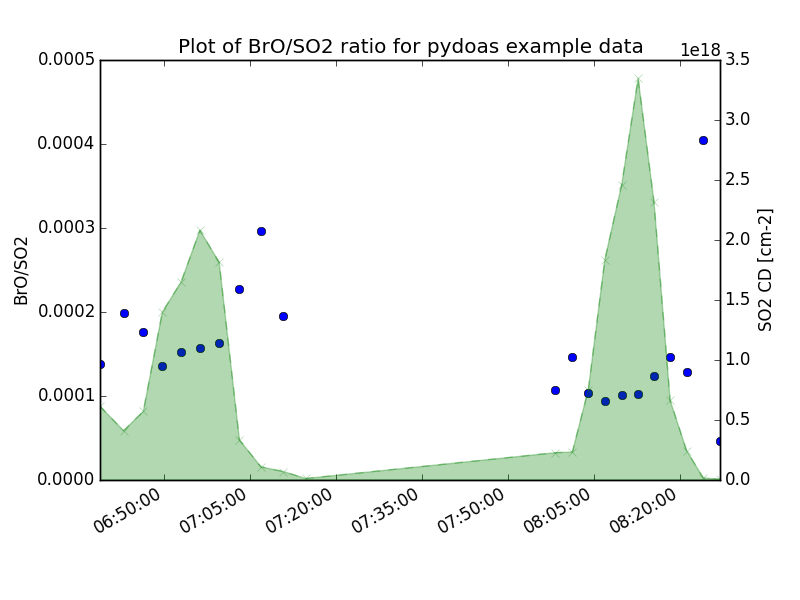
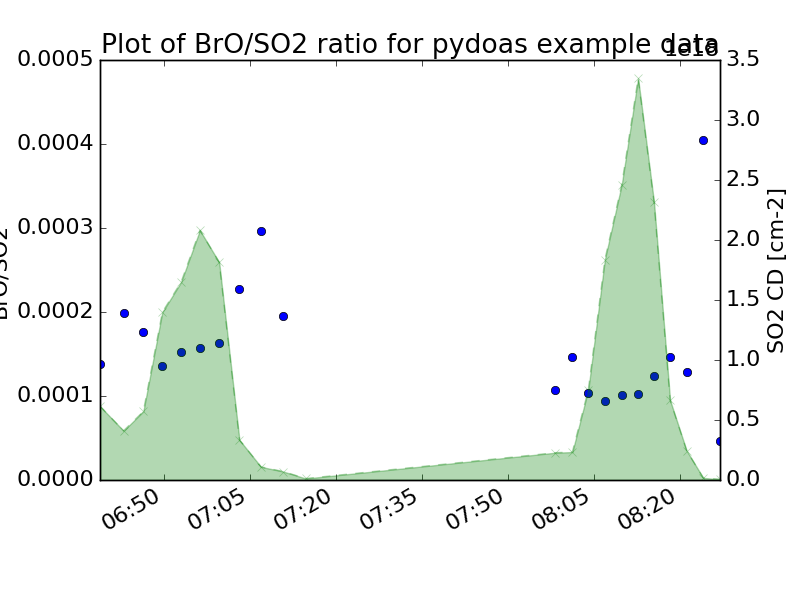
Minor changes in plot style

diff --git a/pydoas/analysis.py b/pydoas/analysis.py
@@ -2,7 +2,6 @@
 from datetime import datetime, timedelta, date
 from numpy import asarray, full, polyfit, poly1d, logical_and, polyval
 from pandas import Series, DataFrame
-from traceback import format_exc
 from matplotlib.pyplot import subplots
 from matplotlib.dates import DateFormatter
 from copy import deepcopy
@@ -36,6 +35,7 @@ class DatasetDoasResults(object):
         """Process input information
         
         Writes ``self.setup`` based on setup
+        
         :param setup: is set if valid (i.e. if input is 
             :class:`ResultImportSetup`)        
         :param **kwargs: - keyword arguments for new :class:`ResultImportSetup`
@@ -462,24 +462,29 @@ class DoasResults(Series):
 #         shifted = super(DoasResults, self).shift(*args, **kwargs)
 #         return 
 #==============================================================================
-    def plot(self, date_formatter=DateFormatter("%H:%M:%S"), **kwargs):
-        """Plot series
+    def plot(self, date_fmt=None, **kwargs):
+        """Plot time series
         
         Uses plotting utility of :class:`Series` object (pandas)        
         
         :param **kwargs: - keyword arguments for pandas plot method
         """
+        if not "style" in kwargs:
+            kwargs["style"]="--x"
+        
         try:
-            if not "style" in kwargs:
-                kwargs["style"]="--x"
             self.index = self.index.to_pydatetime()
-            
-            ax = super(DoasResults, self).plot(**kwargs)
-            ax.xaxis.set_major_formatter(date_formatter)
-            ax.set_ylabel(self.species)
-            return ax
         except:
-            print format_exc()
+            pass
+        ax = super(DoasResults, self).plot(**kwargs)
+        try:
+            if date_fmt is not None:
+                ax.xaxis.set_major_formatter(DateFormatter(date_fmt))
+        except:
+            pass
+        #ax.xaxis.set_major_formatter(date_formatter)
+        ax.set_ylabel(self.species)
+        return ax
     
     def shift(self, timedelta = timedelta(0.)):
         """Shift time stamps of object

diff --git a/scripts/ex1_read_and_plot_example_data.py b/scripts/ex1_read_and_plot_example_data.py
@@ -74,7 +74,7 @@ def plot_some_examples(ds):
     r2 = ds.get_results("so2", "f02")
     
     #plot all SO2 results in top left axes object
-    r0.plot(style="-b", ax=ax, label="so2 (default, f03)")
+    r0.plot(style="-b", ax=ax, label="so2 (default, f03)", date_fmt="%H:%M")
     r1.plot(style="--c", ax=ax, label="so2 (f01)")
     r2.plot(style="--r", ax=ax, label="so2 (f02)").set_ylabel("SO2 [cm-2]")
     ax.legend(loc='best', fancybox=True, framealpha=0.5, fontsize=9)
@@ -96,7 +96,7 @@ def plot_some_examples(ds):
     broso2 = bro/so2
     
     fig2, axis = plt.subplots(1,1)
-    broso2.plot(ax = axis, style = " o")
+    broso2.plot(ax = axis, style=" o", date_fmt="%H:%M")
     axis.set_ylabel("BrO/SO2")
     so2.plot(ax=axis, kind="area", secondary_y=True, alpha=0.3).\
                                                 set_ylabel("SO2 CD [cm-2]")

diff --git a/pydoas/dataimport.py b/pydoas/dataimport.py
@@ -628,6 +628,8 @@ class DataImport(object):
         fmts = self.time_str_formats
         for k in range(len(fmts)):
             try:
+                print data[self.setup.FIRST_DATA_ROW_INDEX][col]
+                print fmts[k]
                 func(data[self.setup.FIRST_DATA_ROW_INDEX][col],fmts[k])
                 print "Found time string format %s" %fmts[k]
                 self._time_str_index = k
